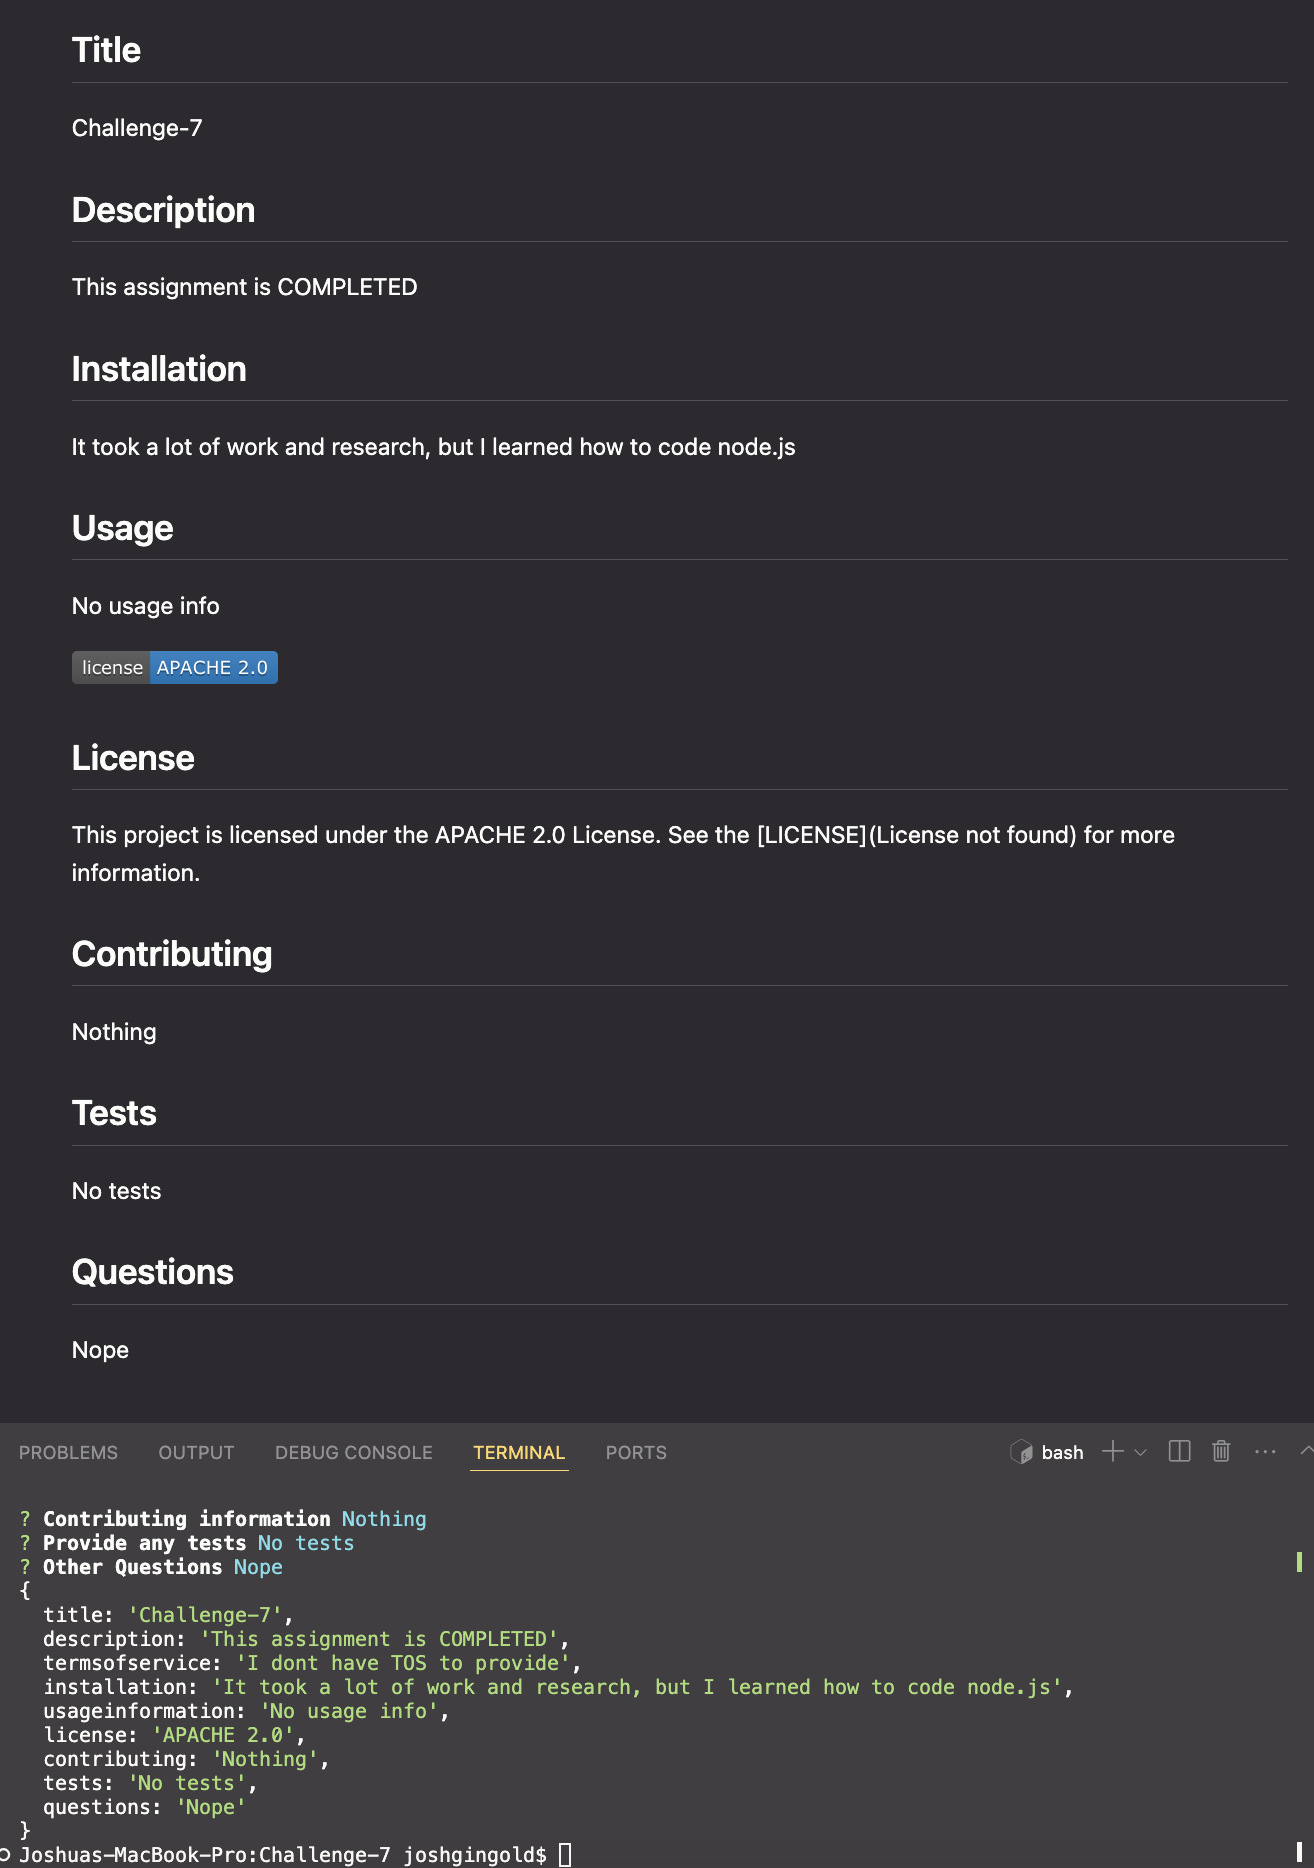
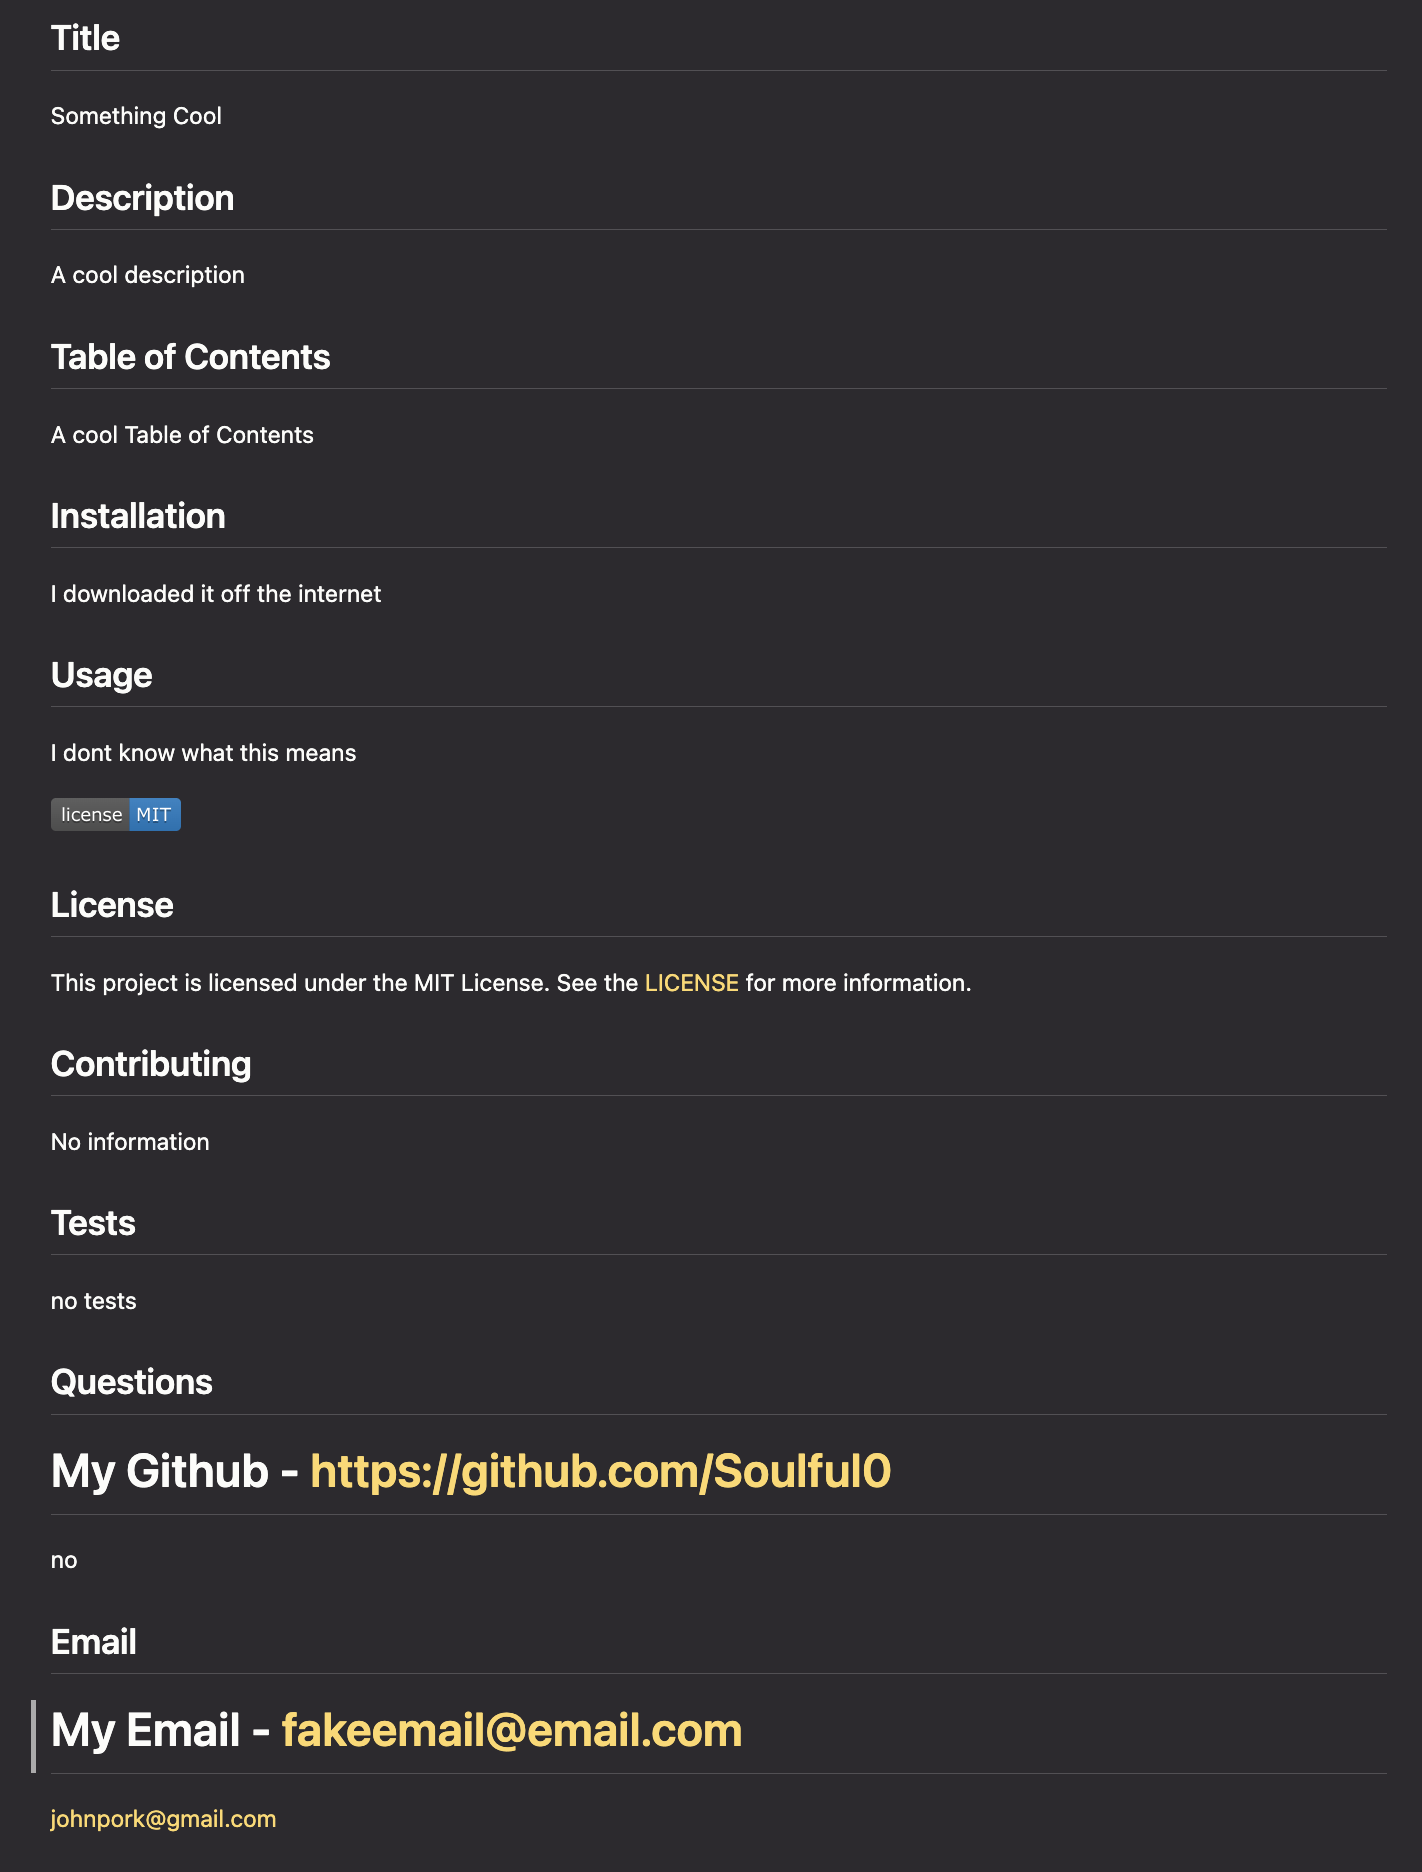
added TOS, and Email and Github

diff --git a/index.js b/index.js
@@ -18,7 +18,7 @@ const questions = [
   {
     type: "input",
     message: "Provide a Table of Contents",
-    name: "termsofservice",
+    name: "tableofcontents",
   },
   {
     type: "input",
@@ -50,6 +50,11 @@ const questions = [
     type: "input",
     message: "Other Questions",
     name: "questions",
+  },
+  {
+    type: "input",
+    message: "Your email for further questions",
+    name: "email",
   },
 ];
 

diff --git a/utils/generateMarkdown.js b/utils/generateMarkdown.js
@@ -44,6 +44,9 @@ function generateMarkdown(data) {
   ## Description
   ${data.description}
 
+  ## Table of Contents
+  ${data.tableofcontents}
+
   ## Installation
   ${data.installation}
 
@@ -60,7 +63,12 @@ function generateMarkdown(data) {
   ${data.tests}
 
   ## Questions
+  # My Github - https://github.com/Soulful0
   ${data.questions}
+
+  ## Email
+  # My Email - fakeemail@email.com
+  ${data.email}
   `;
 }
 

diff --git a/READMEANSWER.md b/READMEANSWER.md
@@ -1,28 +1,36 @@
 
   
   ## Title
-  Challenge-7
+  Something Cool
   
   ## Description
-  This assignment is COMPLETED
+  A cool description
+
+  ## Table of Contents
+  A cool Table of Contents
 
   ## Installation
-  It took a lot of work and research, but I learned how to code node.js
+  I downloaded it off the internet
 
   ## Usage
-  No usage info
+  I dont know what this means
 
-  ![GitHub license](https://img.shields.io/badge/license-APACHE_2.0-blue.svg)
+  ![GitHub license](https://img.shields.io/badge/license-MIT-blue.svg)
   ## License
-This project is licensed under the APACHE 2.0 License. 
-See the [LICENSE](License not found) for more information.
+This project is licensed under the MIT License. 
+See the [LICENSE](https://opensource.org/licenses/MIT) for more information.
 
   ## Contributing
-  Nothing
+  No information
 
   ## Tests
-  No tests
+  no tests
 
   ## Questions
-  Nope
+  # My Github - https://github.com/Soulful0
+  no
+
+  ## Email
+  # My Email - fakeemail@email.com
+  johnpork@gmail.com
   
